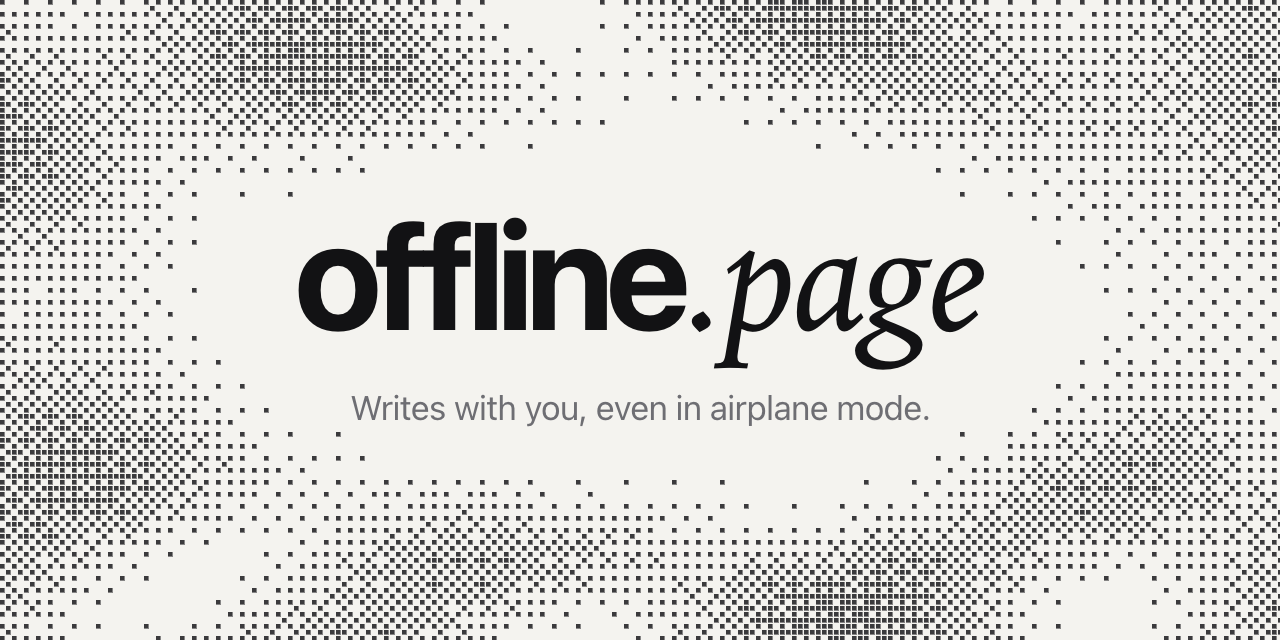
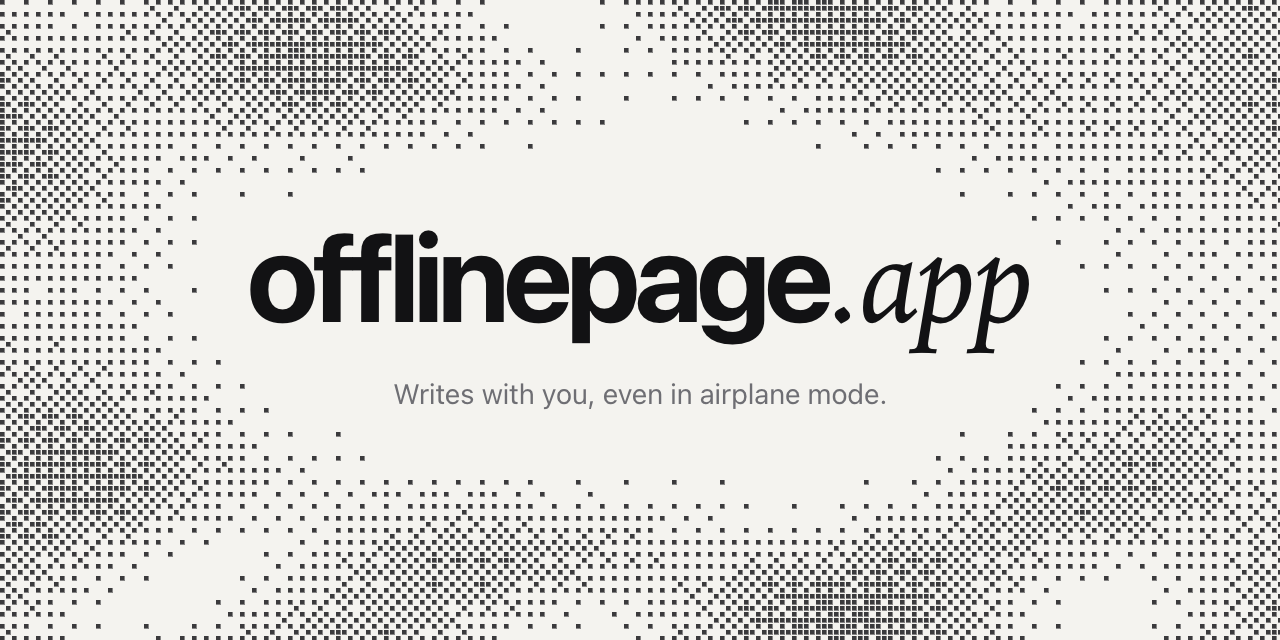
rename the app to offlinepage.app, add an info card for the models, thin scrollbars and drop the works offline label

Changed region(s): [[0.1875, 0.3438, 0.8125, 0.6562]]

diff --git a/index.html b/index.html
@@ -6,16 +6,16 @@
     <meta name="description" content="A free Markdown writing app with autocorrect and autocomplete that run in your browser and keep working in airplane mode. No account, nothing you type leaves your device." />
     <link rel="canonical" href="https://offlinepage.app/" />
     <meta property="og:type" content="website" />
-    <meta property="og:site_name" content="offline.page" />
+    <meta property="og:site_name" content="offlinepage.app" />
     <meta property="og:url" content="https://offlinepage.app/" />
-    <meta property="og:title" content="offline.page: a writing app that works in airplane mode" />
+    <meta property="og:title" content="offlinepage.app: a writing app that works in airplane mode" />
     <meta property="og:description" content="Autocorrect and autocomplete from two tiny models that run in your browser tab. No account, nothing you type leaves your device." />
     <meta property="og:image" content="https://offlinepage.app/og.png" />
     <meta property="og:image:width" content="1200" />
     <meta property="og:image:height" content="630" />
-    <meta property="og:image:alt" content="offline.page. Writes with you, even in airplane mode." />
+    <meta property="og:image:alt" content="offlinepage.app. Writes with you, even in airplane mode." />
     <meta name="twitter:card" content="summary_large_image" />
-    <meta name="twitter:title" content="offline.page: a writing app that works in airplane mode" />
+    <meta name="twitter:title" content="offlinepage.app: a writing app that works in airplane mode" />
     <meta name="twitter:description" content="Autocorrect and autocomplete from two tiny models that run in your browser tab. No account, nothing you type leaves your device." />
     <meta name="twitter:image" content="https://offlinepage.app/og.png" />
     <meta name="theme-color" content="#fbfbf9" media="(prefers-color-scheme: light)" />
@@ -23,9 +23,9 @@
     <link rel="icon" href="./favicon.svg" type="image/svg+xml" />
     <link rel="apple-touch-icon" href="./apple-touch-icon.png" />
     <link rel="manifest" href="./manifest.webmanifest" />
-    <title>offline.page: a writing app with autocorrect that works offline</title>
+    <title>offlinepage.app: a writing app with autocorrect that works offline</title>
     <script type="application/ld+json">
-      {"@context":"https://schema.org","@type":"WebApplication","name":"offline.page","url":"https://offlinepage.app/","description":"A Markdown writing app with autocorrect and autocomplete that run in your browser and keep working offline.","applicationCategory":"ProductivityApplication","operatingSystem":"Any","browserRequirements":"Requires JavaScript and WebAssembly","offers":{"@type":"Offer","price":"0","priceCurrency":"USD"},"image":"https://offlinepage.app/og.png"}
+      {"@context":"https://schema.org","@type":"WebApplication","name":"offlinepage.app","url":"https://offlinepage.app/","description":"A Markdown writing app with autocorrect and autocomplete that run in your browser and keep working offline.","applicationCategory":"ProductivityApplication","operatingSystem":"Any","browserRequirements":"Requires JavaScript and WebAssembly","offers":{"@type":"Offer","price":"0","priceCurrency":"USD"},"image":"https://offlinepage.app/og.png"}
     </script>
     <!-- Sets the sidebar and theme before the first paint, so the page doesn't shift or flash while the app loads. -->
     <script>
@@ -47,7 +47,7 @@
   <body>
     <aside id="sidebar" class="sidebar" aria-label="Pages and models">
       <div class="flex items-center justify-between">
-        <span class="side-brand">offline<i>.page</i></span>
+        <span class="side-brand">offlinepage<i>.app</i></span>
         <span class="ml-auto"></span>
         <button class="side-icon more-button" type="button" aria-label="More" aria-haspopup="menu" aria-expanded="false"><svg viewBox="0 0 16 16" aria-hidden="true"><circle cx="3.5" cy="8" r="1.1" /><circle cx="8" cy="8" r="1.1" /><circle cx="12.5" cy="8" r="1.1" /></svg></button>
         <button id="sidebar-close" class="side-icon" type="button" aria-label="Hide the sidebar" title="Hide the sidebar (⌘\)">
@@ -63,6 +63,13 @@
       <div class="min-h-6 flex-1"></div>
 
       <div class="models" role="group" aria-label="On-device models">
+        <div class="flex items-center gap-2">
+          <p class="side-caption mt-0">On this device</p>
+          <span id="models-status" class="min-w-0 flex-1 truncate font-sans text-[11px] text-side-faint data-[error]:text-error">Loading…</span>
+          <button id="models-info-button" class="side-icon -mr-1.5" type="button" aria-label="About the models" aria-haspopup="dialog" aria-expanded="false">
+            <svg viewBox="0 0 16 16" aria-hidden="true"><circle cx="8" cy="8" r="5.75" /><path d="M8 7.25v3.5" stroke-linecap="round" /><circle cx="8" cy="5.1" r="0.55" fill="currentColor" stroke="none" /></svg>
+          </button>
+        </div>
         <button id="toggle-tinyfix" class="model" type="button" role="switch" aria-checked="true">
           <span class="model-n">01</span><span class="model-name">tiny<i class="text-context">fix</i></span><span class="leader"></span><span class="pill"></span>
         </button>
@@ -74,10 +81,7 @@
         </button>
       </div>
       <div class="side-foot">
-        <span id="models-status" class="group inline-flex min-w-0 items-center gap-1.5 data-[error]:text-error">
-          <i class="size-1.5 flex-none rounded-full bg-faint group-data-[ready]:bg-ok group-data-[error]:bg-error"></i><span id="model-status" class="truncate">Loading models…</span>
-        </span>
-        <a class="flex-none hover:text-sub" href="https://huggingface.co/paperweight" target="_blank" rel="noopener">🤗 Hugging Face ↗</a>
+        <a class="hover:text-side-ink" href="https://huggingface.co/paperweight" target="_blank" rel="noopener">🤗 Hugging Face ↗</a>
       </div>
     </aside>
 
@@ -87,10 +91,11 @@
         <svg viewBox="0 0 16 16" aria-hidden="true"><rect x="2" y="2.5" width="12" height="11" rx="2.5" /><path d="M6.5 2.5v11" /></svg>
       </button>
       <button class="side-icon more-button" type="button" aria-label="More" aria-haspopup="menu" aria-expanded="false"><svg viewBox="0 0 16 16" aria-hidden="true"><circle cx="3.5" cy="8" r="1.1" /><circle cx="8" cy="8" r="1.1" /><circle cx="12.5" cy="8" r="1.1" /></svg></button>
-      <span class="spine-title">offline<i>.page</i></span>
+      <span class="spine-title">offlinepage<i>.app</i></span>
       <span class="spine-dots" aria-hidden="true"><i id="spine-tinyfix"></i><i id="spine-tinynext"></i><i id="spine-capitals"></i></span>
     </div>
     <div id="backdrop" class="backdrop"></div>
+    <div id="models-info" class="info-card" role="dialog" aria-label="About the models" hidden></div>
     <div id="more-menu" class="menu" role="menu" hidden>
       <button id="export" class="menu-item" type="button" role="menuitem">Export as Markdown</button>
       <button id="copy" class="menu-item" type="button" role="menuitem">Copy Markdown</button>

diff --git a/src/main.ts b/src/main.ts
@@ -1,5 +1,5 @@
 import type { Editor, JSONContent } from "@tiptap/core";
-import { MODELS, type ModelId } from "./brand";
+import { MODELS, hubUrl, type ModelId } from "./brand";
 import { createEditor } from "./editor";
 import { revertFix, type AppliedFix } from "./extensions/autocorrect";
 import { suggestionsKey } from "./extensions/suggestions";
@@ -39,7 +39,8 @@ const ui = {
   meta: element("meta"),
   editorHost: element("editor"),
   modelsStatus: element("models-status"),
-  modelStatus: element("model-status"),
+  modelsInfo: element("models-info"),
+  modelsInfoButton: element<HTMLButtonElement>("models-info-button"),
   capitalsToggle: element<HTMLButtonElement>("toggle-capitals"),
   capitalsSpine: element("spine-capitals"),
 };
@@ -112,7 +113,7 @@ function renderMeta(): void {
   const words = countWords(editor);
   const title = titleOf(editor);
   ui.meta.textContent = `${date} · ${words.toLocaleString()} ${words === 1 ? "word" : "words"}`;
-  document.title = `${title} · offline.page`;
+  document.title = `${title} · offlinepage.app`;
 }
 
 // ---- Documents ---------------------------------------------------------------
@@ -380,17 +381,66 @@ let loadMilliseconds = 0;
 let worksOffline = false;
 let loadError = "";
 
+/** The sidebar only says something while the models load or when they fail. Once they're ready it stays quiet. */
 function renderStatus(): void {
-  const text = {
-    loading: "Loading models…",
-    ready: worksOffline ? "Works offline" : `Models ready in ${loadMilliseconds} ms`,
-    error: "Models couldn’t load",
-  }[modelState];
-  ui.modelStatus.textContent = text;
+  ui.modelsStatus.textContent = { loading: "Loading…", ready: "", error: "Couldn’t load" }[modelState];
   ui.modelsStatus.title = modelState === "error" ? `Writing and saving still work. ${loadError}` : "";
   ui.modelsStatus.toggleAttribute("data-ready", modelState === "ready");
   ui.modelsStatus.toggleAttribute("data-error", modelState === "error");
+  if (!ui.modelsInfo.hidden) renderModelsInfo();
 }
+
+const CAPITALS_INFO = "Capitals for sentence starts, days and months. Rules, with no model.";
+
+function modelsInfoFooter(): string {
+  if (modelState === "error") return "The models couldn’t load. Writing and saving still work.";
+  if (modelState === "loading") return "Loading the models…";
+  const loaded = `Loaded in ${loadMilliseconds} ms.`;
+  return worksOffline ? `Everything runs in this tab and is saved for offline use. ${loaded}` : `Everything runs in this tab. ${loaded}`;
+}
+
+/** What each switch does, in a sentence, with a link to the model. All of the text comes from this file and brand.ts. */
+function renderModelsInfo(): void {
+  const rows = MODEL_IDS.map(
+    (id) => `<div class="info-row">
+      <div class="flex items-baseline justify-between gap-3">
+        <span><span class="info-name">${MODELS[id].name}</span> <span class="info-kind">${MODELS[id].role} · ${MODELS[id].size}</span></span>
+        <a class="info-link" href="${hubUrl(id)}" target="_blank" rel="noopener">Model ↗</a>
+      </div>
+      <p class="info-text">${MODELS[id].caveat}</p>
+    </div>`,
+  );
+  ui.modelsInfo.innerHTML = `${rows.join("")}
+    <div class="info-row"><span class="info-name">capitals</span><p class="info-text">${CAPITALS_INFO}</p></div>
+    <div class="info-row"><p class="info-text mt-0">${modelsInfoFooter()}</p></div>`;
+}
+
+const closeInfoOnOutsideClick = (event: MouseEvent): void => {
+  const target = event.target as Node;
+  if (!ui.modelsInfo.contains(target) && !ui.modelsInfoButton.contains(target)) closeModelsInfo();
+};
+
+function closeModelsInfo(): void {
+  ui.modelsInfo.hidden = true;
+  ui.modelsInfoButton.setAttribute("aria-expanded", "false");
+  document.removeEventListener("mousedown", closeInfoOnOutsideClick);
+}
+
+/** Opens the card above the button, since the button sits at the bottom of the sidebar. */
+function openModelsInfo(): void {
+  renderModelsInfo();
+  const box = ui.modelsInfoButton.getBoundingClientRect();
+  ui.modelsInfo.style.bottom = `${window.innerHeight - box.top + 8}px`;
+  ui.modelsInfo.style.left = `${Math.max(12, Math.min(box.left - 8, window.innerWidth - 312))}px`;
+  ui.modelsInfo.hidden = false;
+  ui.modelsInfoButton.setAttribute("aria-expanded", "true");
+  document.addEventListener("mousedown", closeInfoOnOutsideClick);
+}
+
+ui.modelsInfoButton.addEventListener("click", () => (ui.modelsInfo.hidden ? openModelsInfo() : closeModelsInfo()));
+document.addEventListener("keydown", (event) => {
+  if (event.key === "Escape" && !ui.modelsInfo.hidden) closeModelsInfo();
+});
 
 function renderModelToggles(): void {
   for (const id of MODEL_IDS) {

diff --git a/src/styles.css b/src/styles.css
@@ -136,6 +136,18 @@
     scrollbar-gutter: stable;
   }
 
+  /* Thin scrollbars in the page's own greys, with no track. */
+  html,
+  .prose pre {
+    scrollbar-width: thin;
+    scrollbar-color: var(--line) transparent;
+  }
+
+  .pages {
+    scrollbar-width: thin;
+    scrollbar-color: var(--leader) transparent;
+  }
+
   /* index.html carries the welcome page as plain HTML for a first visit. Someone with saved pages never sees it. */
   :root[data-returning] #welcome-static {
     display: none;
@@ -407,7 +419,7 @@
   }
 
   .side-foot {
-    @apply flex items-center justify-between gap-3 pt-2.5 font-sans text-[11.5px] text-side-faint;
+    @apply pt-2.5 font-sans text-[11.5px] text-side-faint;
   }
 
   .spine {
@@ -508,6 +520,31 @@
   /* Placed next to whichever ⋯ button opened it (sidebar or spine). */
   .menu {
     @apply fixed z-40 w-48 rounded-xl bg-surface p-1 font-sans shadow-float;
+  }
+
+  /* The card behind the sidebar's info button: what each switch does, in a sentence. */
+  .info-card {
+    @apply fixed z-40 w-[min(300px,calc(100vw-24px))] rounded-[14px] bg-surface px-4 py-1 font-sans text-ink shadow-float;
+  }
+
+  .info-row {
+    @apply border-b border-line py-3 last:border-0;
+  }
+
+  .info-name {
+    @apply text-[13px] font-[650] tracking-[-0.01em];
+  }
+
+  .info-kind {
+    @apply text-[11.5px] text-sub;
+  }
+
+  .info-text {
+    @apply mt-1 text-[12.5px] leading-[1.45] text-sub;
+  }
+
+  .info-link {
+    @apply flex-none text-[11.5px] text-sub underline decoration-line underline-offset-2 hover:text-ink;
   }
 
   .menu-item {

diff --git a/brand/src/title.html b/brand/src/title.html
@@ -14,9 +14,9 @@
 <script>
 // One template for every brand image: a centered name and one line over a dithered wave field. Mono, light.
 const IMAGES = {
-  banner:   { name: 'offline<span class="write page">.page</span>', line: "Autocorrect and autocomplete that work in airplane mode.", size: 88 },
-  social:   { name: 'offline<span class="write page">.page</span>', line: "Writes with you, even in airplane mode.", size: 76 },
-  og:       { name: 'offline<span class="write page">.page</span>', line: "Writes with you, even in airplane mode.", size: 76 },
+  banner:   { name: 'offlinepage<span class="write page">.app</span>', line: "Autocorrect and autocomplete that work in airplane mode.", size: 80 },
+  social:   { name: 'offlinepage<span class="write page">.app</span>', line: "Writes with you, even in airplane mode.", size: 62 },
+  og:       { name: 'offlinepage<span class="write page">.app</span>', line: "Writes with you, even in airplane mode.", size: 62 },
   tinyfix:  { name: 'tiny<span class="write fix">fix</span>', line: "Autocorrect that reads both sides of a word.", size: 104 },
   tinynext: { name: 'tiny<span class="caret"></span><span class="write next">next</span>', line: "Suggests the next few words. Tab to take them.", size: 104 },
 };

diff --git a/brand/src/brand.css b/brand/src/brand.css
@@ -1,4 +1,4 @@
-/* Shared tokens for the offline.page brand images. Light by default; html.dark for the dark variant. */
+/* Shared tokens for the offlinepage.app brand images. Light by default; html.dark for the dark variant. */
 * { box-sizing: border-box; margin: 0; padding: 0; }
 :root {
   --bg: #f4f3ef; --ink: #121214; --body: #2a2a2c; --sub: #6e6e73; --faint: #9c9ca1; --line: #dedcd6; --card: #ffffff;

diff --git a/src/welcome.ts b/src/welcome.ts
@@ -1,5 +1,5 @@
 /** The first page a new visitor sees. It doubles as the instructions, so every claim in it matches what the models do. */
-export const WELCOME_TITLE = "Welcome to offline.page";
+export const WELCOME_TITLE = "Welcome to offlinepage.app";
 
 export const WELCOME_MARKDOWN = `# ${WELCOME_TITLE}
 

diff --git a/.github/README.md b/.github/README.md
@@ -1,5 +1,5 @@
 <p align="center">
-  <img alt="offline.page: autocorrect and autocomplete that work in airplane mode" src="../brand/banner.png" width="880">
+  <img alt="offlinepage.app: autocorrect and autocomplete that work in airplane mode" src="../brand/banner.png" width="880">
 </p>
 
 <p align="center">
@@ -8,7 +8,7 @@
   <a href="https://huggingface.co/paperweight/tinynext">tinynext</a>
 </p>
 
-**offline.page** is a Markdown writing app with autocorrect and autocomplete that run entirely in your browser tab. Two tiny models, about 15 MB together, no server, and once the page has loaded it keeps working with Wi‑Fi off.
+**offlinepage.app** is a Markdown writing app with autocorrect and autocomplete that run entirely in your browser tab. Two tiny models, about 15 MB together, no server, and once the page has loaded it keeps working with Wi‑Fi off.
 
 ## The models
 

diff --git a/README.md b/README.md
@@ -13,7 +13,7 @@ models:
   - paperweight/tinynext
 ---
 
-# offline.page
+# offlinepage.app
 
 A Markdown writing app with autocorrect and autocomplete that run entirely in your browser. About 15 MB of models, no server, and once the page has loaded it keeps working with Wi‑Fi off.
 
